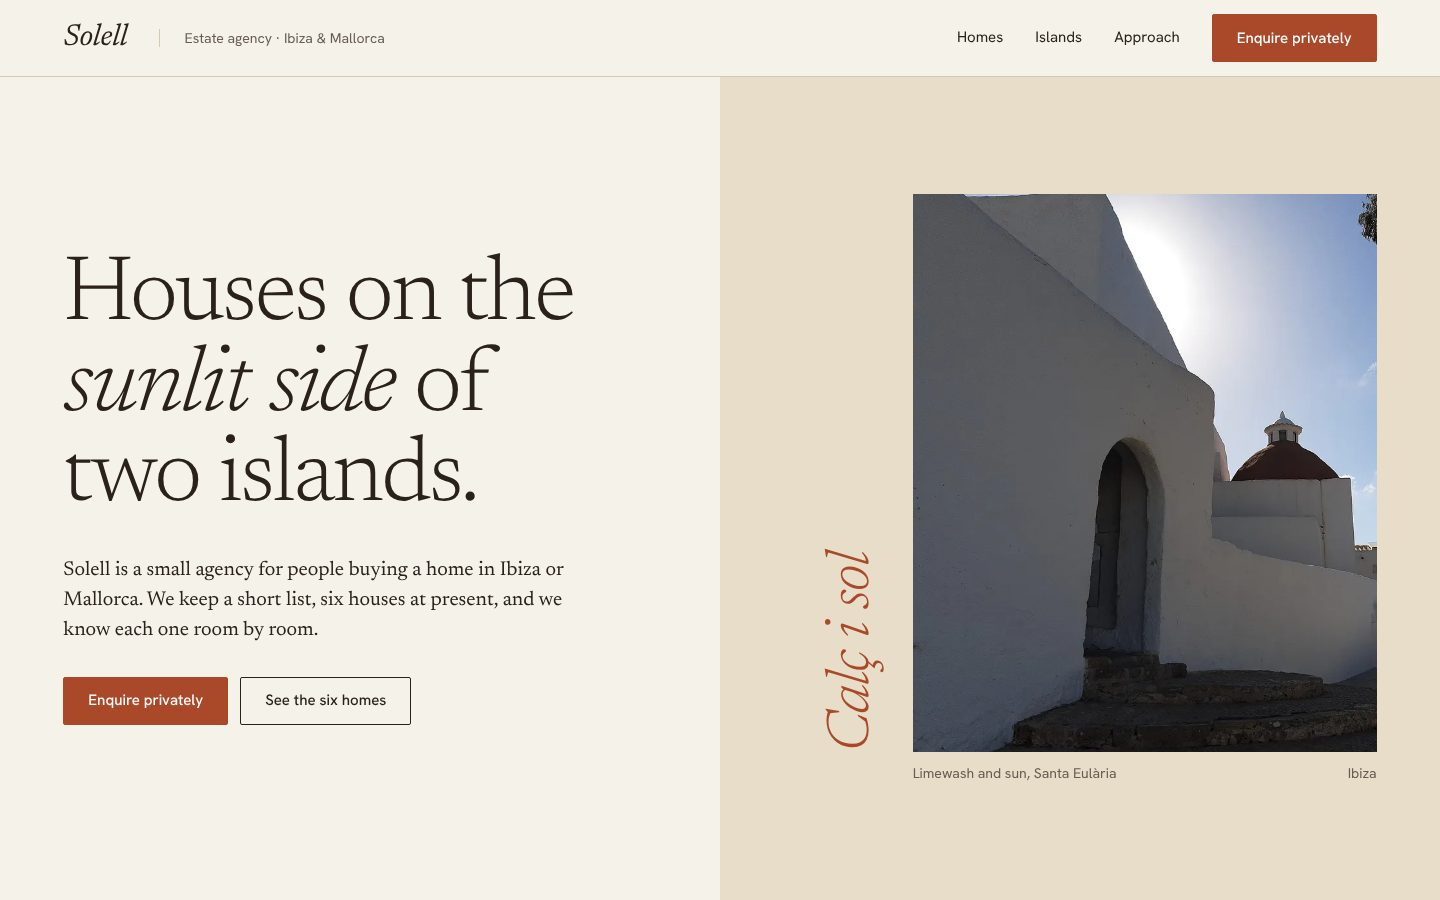
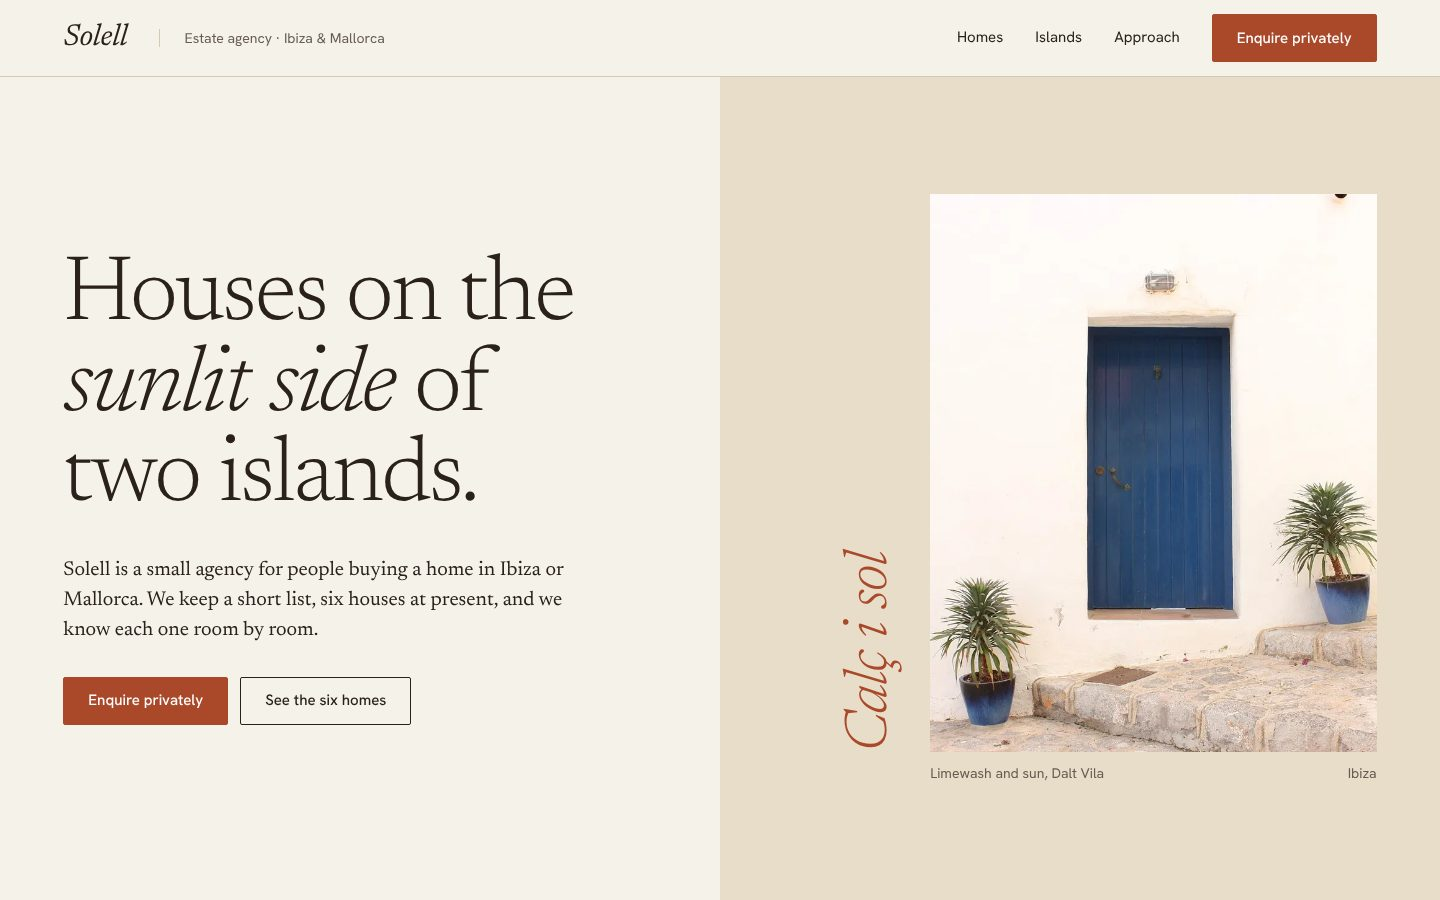
Apply finish-review fixes: sunlit opening photograph, 4:5 frames, title tabs, captions, stand-in notice
Claude-Session: https://claude.ai/code/session_01QZ4oXmiVwDQG7aZpCMniAU

Changed region(s): [[0.5625, 0.2178, 0.9688, 0.8711]]

diff --git a/projects/balearic-real-estate/site/src/data/site.js b/projects/balearic-real-estate/site/src/data/site.js
@@ -39,8 +39,8 @@ export const islands = [
         facts: '3 bedrooms · 240 m² · roof terrace',
         price: 'Guide €2.8m',
         photo: casaDesPortal,
-        alt: 'Whitewashed townhouses and a small belfry around a quiet square in the old town',
-        position: '0% 0%',
+        alt: 'A thick whitewashed wall with a deep arched doorway and worn stone steps',
+        position: '0% 50%',
       },
       {
         id: 'es-varador',
@@ -117,9 +117,9 @@ export const steps = [
 
 // Stand-in photographs from Wikimedia Commons. They show real public places, not the homes.
 export const credits = [
+  ['Carrer des Portal Nou, Ibiza', 'Sara Suñé', 'CC BY 2.0', 'https://commons.wikimedia.org/wiki/File:Carrer_des_Portal_Nou,_Ibiza_(4020736786).jpg'],
   ['Limewashed wall, Santa Eulària des Riu', 'Gerda Arendt', 'CC0', 'https://commons.wikimedia.org/wiki/File:Entranca_to_Santa_Eul%C3%A0ria_des_Riu,_Ibiza.jpg'],
   ['House and garden, Balàfia', 'Gerda Arendt', 'CC0', 'https://commons.wikimedia.org/wiki/File:House_and_garden_with_dragon_tree,_Bal%C3%A0fia,_Ibiza.jpg'],
-  ['Dalt Vila', 'Nicolas Vigier', 'CC0', 'https://commons.wikimedia.org/wiki/File:Dalt_Vila_(50600584928).jpg'],
   ['Port de Porroig', 'Jorge Cancela', 'CC BY 2.0', 'https://commons.wikimedia.org/wiki/File:Port_de_Porroig,_Eivissa.jpg'],
   ['House in Valldemossa', 'Malopez 21', 'CC BY-SA 4.0', 'https://commons.wikimedia.org/wiki/File:Valldemossa,_casa,_01.jpg'],
   ['Finca Balitx d’Avall', 'Rosa-Maria Rinkl', 'CC BY-SA 4.0', 'https://commons.wikimedia.org/wiki/File:Finca_Balitx_d%C2%B4Avall.jpg'],

diff --git a/projects/balearic-real-estate/site/src/styles/global.css b/projects/balearic-real-estate/site/src/styles/global.css
@@ -19,6 +19,7 @@
   --ink: #2A211B;        /* text: warm brown-black */
   --stone: #665C51;      /* secondary text on chalk and sand */
   --line: #D5C9B4;
+  --field-line: #77695A; /* control borders: 3:1 or better on chalk and sand */
   --on-terracotta: #FBF4E8;
   --error: #8C2A14;
 

diff --git a/projects/balearic-real-estate/agency/decisions.md b/projects/balearic-real-estate/agency/decisions.md
@@ -34,3 +34,14 @@
   build, critique and polish. Reason: Taste Skill house rules conflict with the approved direction.
 - **2026-11-23** Carried into the build from the design hook: test a chalkier ground against
   limewash; remove the floating label above the headline; check title-tab padding.
+- **2026-11-23** Imagery changed: designer declined Figma AI image generation ("No, use
+  stand-ins"). The page ships with eleven Wikimedia Commons stand-ins, credited in the footer
+  and stated beneath the homes; generation prompts are in `06-content.md`.
+- **2026-11-23** Stack: Astro 5, plain CSS tokens, self-hosted variable fonts, `sharp` for
+  responsive images. No CMS, no client framework; one small inline script for the form.
+- **2026-11-23** Build decisions: homes grouped by island; "How we work" is the one
+  terracotta section; ground moved from limewash `#F6F1E7` to chalk `#F5F2EA` (designer to
+  confirm, comparison in `shots-wip/ground-compare.jpg`); descriptor moved into the header so
+  no label floats above the headline; island photographs are 3:2 by exception.
+- **2026-11-23** Finish review (design lead's independent reviewer): disposition "fix", eight
+  material fixes, all applied in one batch; verdict round requested.

diff --git a/projects/balearic-real-estate/.impeccable/surfaces/site-src-pages-index-astro.md b/projects/balearic-real-estate/.impeccable/surfaces/site-src-pages-index-astro.md
@@ -16,6 +16,8 @@ photographs credited; form sends nothing.
 
 Memorable moment: each home's italic name sitting on a paper tab cut into its photograph.
 
+Intentional exceptions: the two island photographs are 3:2 landscape (a place, not a house) with the island name on a tab and a place caption beside it; every other photograph is 4:5.
+
 Unresolved: final photographs for the six homes (stand-ins now; generation prompts in
 `agency/06-content.md`).
 
@@ -35,7 +37,7 @@ its houses and the islands, and enquires privately about one home or with a gene
 
 FIRST VIEWPORT: Split. Left on chalk: headline "Houses on the sunlit side of two islands." at
 about 88px with "sunlit side" in italic, a two-sentence statement, "Enquire privately" and "See
-the six homes". Right on sand: one 4:5 framed photograph of a limewashed wall with a vertical
+the six homes". Right on sand: one 4:5 framed photograph of a sunlit limewashed house front with a vertical
 italic caption beside it and a split caption beneath. Header above with wordmark, descriptor,
 anchors and the enquiry action.
 

diff --git a/projects/balearic-real-estate/agency/06-content.md b/projects/balearic-real-estate/agency/06-content.md
@@ -36,7 +36,7 @@ the long side.
 
 | Slot | File to replace in `site/src/assets/photos/` | Prompt |
 |---|---|---|
-| Opening | `opening-limewash.jpg` | A thick whitewashed farmhouse wall with a deep arched doorway in hard morning sun, sharp diagonal shadow, clear blue sky, a corner of terracotta roof tile |
+| Opening | `opening-limewash.jpg` | A limewashed house front in full morning sun, a single painted plank door, a small shuttered window, a terracotta pot on worn stone steps, deep clean shadow in the doorway |
 | Can Pou | `can-pou.jpg` | Traditional white Ibizan finca with cubic volumes and small windows behind a dry garden of fig and oleander, stone well in the foreground, red earth path |
 | Casa des Portal | `casa-des-portal.jpg` | Roof terrace of a whitewashed townhouse inside old city walls, lime-plaster bench, terracotta pots, a cathedral bell tower close by, late afternoon light |
 | Es Varador | `es-varador.jpg` | Low white house on a pine-covered slope above weathered timber boat sheds and a slipway, calm clear water, seen from the shore |
